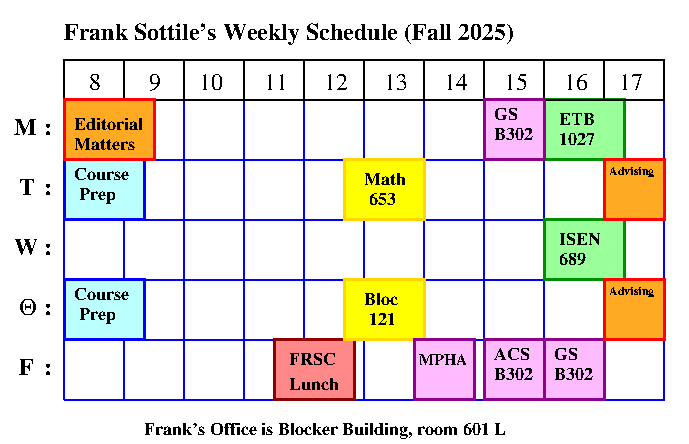
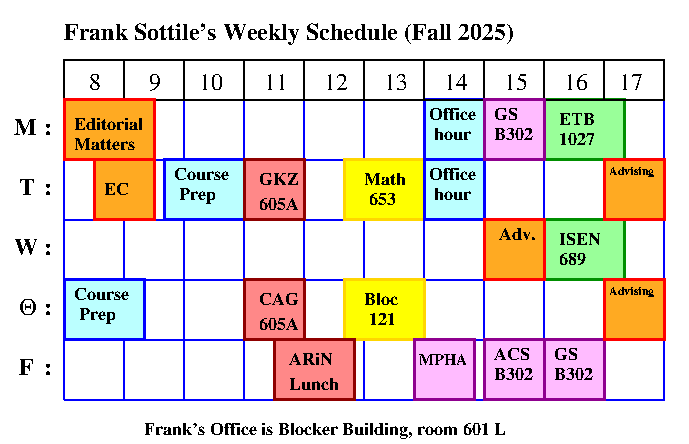
25.2 updates

diff --git a/teaching.html b/teaching.html
@@ -134,37 +134,38 @@
 <!--    Before teaching any course, especially one you have taught before,  ---->
 <!--    re-read your evaluations !                                          ---->
 <!------------------------------------------------------------------------------>
- <!---------------------------------------------------------------------------------------------------->
-  <!---------------------------------------------------------------------------------------------------->
-   <b><FONT SIZE=+1 color=brown>Fall  2025</font></b>
-   <table border=0>
-   <!---------------------------------------------------------------------------------------------------->
+<!---------------------------------------------------------------------------------------------------->
+  <b><FONT SIZE=+1 color=brown>Fall  2025</font></b>
+  <table border=0>
+    <!---------------------------------------------------------------------------------------------------->
     <tr valign=top><td><font color=brown>MATH 653</font>&nbsp;</td>
-      <td><a href="teaching/25.2/653.html"></a>Algebra I</a></td>
-      <td colspan=2> Tu-Th 12:45&ndash;14:00.</td><td> Blocker 121
+      <td><a href="teaching/25.2/653.html">Algebra I</a></td>
+      <td colspan=1> Tu-Th </td><td> 12:45&ndash;14:00</td><td> Blocker 121
       </td>
     </tr>
      <!-------------------------------------------------->
-    <tr valign=top><td colspan=3 rowspan=1><font color=blue><b>Office Hours:</b></font> Blocker 601L</td>
-     <td>  </td><td> </td>
-    </tr>
+    <tr valign=top><td colspan=4 rowspan=1><font color=blue><b>Office Hours:</b></font> &nbsp; Blocker 601L </td><td></td>
+   </tr>
     <!-------------------------------------------------->
-<!--     <tr><td>  Tuesdays </td><td>11:00-12:00 </td> </tr>-->
-     <!-------------------------------------------------->
-     <tr><td></td><td colspan=4><hr></td></tr>
+    <tr><td colspan=3>  Mondays &amp;  Tuesdays </td> <td colspan=2>14:00-15:00 </td> 
+    <!-------------------------------------------------->
+    <!-------------------------------------------------->
+   <tr><td colspan=2> Also, by Appointment</td></tr>
+   <tr><td colspan=4><hr></td></tr>
     <!-------------------------------------------------->
    <tr valign=top>
-     <td colspan=3><font color=blue><b>Honors Advising:</b></font></td>
-     <td> </td><td></td>
+     <td colspan=3><font color=blue><b>Honors Advising:</b> Bloc 601L</font></td>
+     <td colspan=2><a href="https://tamu.campus.eab.com/pal/SzblDjOLD-">Schedule appointment</a></td> 
     </tr>
     <!-------------------------------------------------->
-     <tr valign=top><td rowspan=3></td>     <td colspan=2 rowspan=3>Blocker 601L</td>
-      <td>  </td><td> </td> </tr>
+     <tr valign=top><td colspan=2>Tuesdays  &amp; Thursdays </td>
+      <td colspan=2 >15:00&ndash;16:00</td>
+      <td>  </td></tr>
     <!-------------------------------------------------->
-<!--     <tr><td> Wednesday </td><td>17:00-18:00 </td> </tr> -->
+     <tr><td> Wednesday </td><td>17:00-18:00 </td> </tr>
     <!-------------------------------------------------->
 <!--     <tr><td> </td><td>17:00-18:00 </td> </tr>-->
-    <!---------------------------------------------------------------------------------------------------->
+  <!---------------------------------------------------------------------------------------------------->
   </table>
   <!---------------------------------------------------------------------------------------------------->
 
@@ -190,29 +191,7 @@
     Isaiah Galo,  TAMU Master's Student.
  </dd>
  <!---------------------------------------------------------------------------------------------------->  
- <!---------------------------------------------------------------------------------------------------->
- <dd>
-    Merri Stillman,  TAMU Master's Student.
- </dd>
- <!---------------------------------------------------------------------------------------------------->
- <!---------------------------------------------------------------------------------------------------->
- <dd>
-    Jonah Robinson,  TAMU Master's Student.  
- </dd>
- <!---------------------------------------------------------------------------------------------------->
- <!------- <dd>
-  Jennifer Pickrel,  TAMU Master's Student.
- </dd>------>
- <br>
- <!------------------------------------------------------------------>
-  <dd>
-    <A HREF="https://cbott2.github.io/">C.J. Bott</a>, TAMU Ph.D. Student.
-  </dd>
- <!------------------------------------------------------------------>
- <!------------------------------------------------------------------>
-  <dd>
-    <A HREF="https://jordylopez27.github.io/">Jordy Lopez-Garc&iacute;a</a>, TAMU Ph.D. Student.
-  </dd>
+  <br>
  <!------------------------------------------------------------------>
  <!------------------------------------------------------------------>
   <dd>

diff --git a/teaching/25.2/653.html b/teaching/25.2/653.html
@@ -39,15 +39,15 @@ Homework is on a <a href="653_HW.html">separate page</a>
      <IMG SRC="../images/dot.gif"> Mondays: 
     </TD>  
     <TD>
- <!--    14:00&ndash;14:50 -->
+   14:00&ndash;14:50
     </TD>
    </TR> 
   <TR>
     <TD></TD> <TD>  
-     <IMG SRC="../images/dot.gif"> Wednesdays: &nbsp;
+     <IMG SRC="../images/dot.gif"> Tuesdays: &nbsp;
     </TD>  
     <TD>
-  <!--     13:00&ndash;14:00 -->
+      14:10&ndash;15:00
     </TD>
    </TR>
    <TR>
@@ -82,7 +82,7 @@ Homework is on a <a href="653_HW.html">separate page</a>
     This is a first semester graduate course in abstract algebra, and
     is intended to be an introduction to the fundamental objects of groups, rings, modules,
     fields, and vector spaces.
-    I intend to cover most of <font color="red">Chapters ??</font> from Lang's
+    I intend to cover most of <font color="red">Chapters 1 and 2, and some other bits</font> from Lang's
     classical algebra text (at right).  
     We should cover the following topics, time permitting.
    <ul>
@@ -156,11 +156,11 @@ Homework is on a <a href="653_HW.html">separate page</a>
  <!-------------------------------------------------------------------------------> 
  <dd><font size=+1 color=maroon>Homework:</font>
   <dl>
-    <dd>There will be weekly written homework assignments to be handed in (on  <font color=magenta>TBA</font>)
+    <dd>There will be weekly written homework assignments to be handed in (on  <font color=magenta>Thursdays</font>, at the starat of class)
         and graded.
       Problems may  be assigned in nearly every class; a summary may be found <a href="653_HW.html"><font color=red>here</font></a>.
         These will be marked by our grader, Daniel Dale, an advanced senior graduate student, and returned on
-        <font color=magenta>TBA</font>.   Sometimes, there will be homework you are to hand into Frank.<br>
+        <font color=magenta>Tuesdays</font>.   Sometimes, there will be homework you are to hand into Frank.<br>
         As this is a qualifying class, there will be plenty of homework, and you should use it as a way to master the
         material, which is fundamental to any educated mathematician.
     </dd>
@@ -191,10 +191,9 @@ Homework is on a <a href="653_HW.html">separate page</a>
        Also, you are absolutely forbidden to consult web sites or problem solution sources
        (other than the textbook and class notes).
        Violating this rule has serious consequences, both as it violates the universities
-       academic integrity policy <font color=red (read that 
-       <A HREF="http://aggiehonor.tamu.edu/RulesAndProcedures/HonorSystemRules.aspx">here</a>), </font>
+       academic integrity policy (read that in the official syllabus), 
        and because not doing your own work will likely lead to an inability to do the problems 
-       on the course exams.
+       on the course exams and very poor marks.
    </dd>
   </dl>
  </dd>

diff --git a/index.html b/index.html
@@ -174,23 +174,25 @@
       </td>
     </tr>
      <!-------------------------------------------------->
-    <tr valign=top><td colspan=3 rowspan=1><font color=blue><b>Office Hours:</b></font> </td>
-     <td> </td><td></td>
+    <tr valign=top><td colspan=4 rowspan=1><font color=blue><b>Office Hours:</b></font> &nbsp; Blocker 601L </td><td></td>
    </tr>
     <!-------------------------------------------------->
-<!--     <tr><td>  Tuesdays </td><td>11:00-12:00 </td> </tr>-->
-     <!-------------------------------------------------->
-     <tr><td></td><td colspan=4><hr></td></tr>
+    <tr><td colspan=3>  Mondays &amp;  Tuesdays </td> <td colspan=2>14:00-15:00 </td> 
+    <!-------------------------------------------------->
+    <!-------------------------------------------------->
+   <tr><td colspan=2> Also, by Appointment</td></tr>
+   <tr><td colspan=4><hr></td></tr>
     <!-------------------------------------------------->
    <tr valign=top>
-     <td colspan=3><font color=blue><b>Honors Advising:</b></font><br>Blocker 601L</br></td>
-     <td>Summer 2025:</td><td colspan=2>Mon. &amp; Tues. &nbsp; 13:30-14:00 </td>
+     <td colspan=3><font color=blue><b>Honors Advising:</b> Bloc 601L</font></td>
+     <td colspan=2><a href="https://tamu.campus.eab.com/pal/SzblDjOLD-">Schedule appointment</a></td> 
     </tr>
     <!-------------------------------------------------->
-     <tr valign=top><td colspan=2></td>     <td colspan=2 rowspan=3></td>
-      <td>  </td><td> </td> </tr>
+     <tr valign=top><td colspan=2>Tuesdays  &amp; Thursdays </td>
+      <td colspan=2 >15:00&ndash;16:00</td>
+      <td>  </td></tr>
     <!-------------------------------------------------->
-<!--     <tr><td> Wednesday </td><td>17:00-18:00 </td> </tr> -->
+     <tr><td> Wednesday </td><td>17:00-18:00 </td> </tr>
     <!-------------------------------------------------->
 <!--     <tr><td> </td><td>17:00-18:00 </td> </tr>-->
     <!---------------------------------------------------------------------------------------------------->
@@ -213,8 +215,8 @@
      <td><a href="https://www.math.tamu.edu/seminars/cag/"></a>Combinatorial Algebraic Geometry
      </td>
      <td width=30></td>
-     <td>TBD</td>
-     <td>TBD</td>
+     <td>Thursdays  10:00&ndash;11:00</td>
+     <td>Blocker 605A</td>
    </tr>
    </tr>
       <tr> <td>&nbsp;</td>

diff --git a/talks.html b/talks.html
@@ -120,9 +120,18 @@
   <!--------------------------------------------------------------------------------------------------->
   <!---------------------------------------------------------------------------------------------------->
   <li> 
-    <FONT COLOR="AA00FF"><I>TBA</I></font>,
+    <FONT COLOR="AA00FF"><I>Algebraic geometry of periodic graphs</I></font>,
+    AMS Special Session on  Open Problems in Geometric Data Science,
+    Joint Mathematics Meetings, 4&ndash;7 January 2026, Washington, DC.
+    <a href="talks/26/JMM_Kurlin.txt">abstract</a>
+  </li>
+  <!---------------------------------------------------------------------------------------------------->
+   <!---------------------------------------------------------------------------------------------------->
+  <li> 
+    <FONT COLOR="AA00FF"><I>Periodic graphs whose band functions are perfect Morse functions</I></font>,
     AMS Special Session on  Spectral Theory of Discrete and Continuous Sch&ouml;dinger Operators,
     Joint Mathematics Meetings, 4&ndash;7 January 2026, Washington, DC.
+    <a href="talks/26/JMM_Spectral.txt">abstract</a>
   </li>
   <!---------------------------------------------------------------------------------------------------->
   <!---------------------------------------------------------------------------------------------------->
@@ -141,11 +150,12 @@
   <!---------------------------------------------------------------------------------------------------->
   <!---------------------------------------------------------------------------------------------------->
   <li>
-    <FONT COLOR="AA00FF"><I>TBA</I></font>,
+    <FONT COLOR="AA00FF"><I>The critical point degree of a periodic graph</I></font>,
     Special Session on Applied and Computational Algebra at
     <a href="https://www.ams.org/meetings/sectional/2322_program.html">AMS Fall Central Sectional Meeting</a>
     Saint Louis University, St. Louis, MO
-      October 18&ndash;19, 2025.
+    October 18&ndash;19, 2025.
+        <a href="talks/25/StLouis.txt">abstract</a>
   </li>
   <!---------------------------------------------------------------------------------------------------->
   <!--------------------------------------------------------------------------------------------------->

diff --git a/advising/advising.html b/advising/advising.html
@@ -68,17 +68,7 @@ You needn't take my word on this, feel free to contact those who have worked wit
 
 <font color=maroon>Current Students</font>
  <ul>
- <!------------------------------------------------------------------>
- <li>
-   <A HREF="https://cbott2.github.io/">C.J. Bott</a>, TAMU Ph.D.  Student.
- </li>
- <!------------------------------------------------------------------>
- <!------------------------------------------------------------------>
- <li>
-    <A HREF="https://jordylopez27.github.io/">Jordy Lopez-Garc&iacute;a</a>, TAMU Ph.D. Student.
- </li>
- <!------------------------------------------------------------------>
- <!------------------------------------------------------------------>
+  <!------------------------------------------------------------------>
  <li>
     <A HREF="https://jordylopez27.github.io/"></a>Somak Dutta, TAMU Ph.D. Student.
  </li>
@@ -92,6 +82,16 @@ You needn't take my word on this, feel free to contact those who have worked wit
 
 <font color=maroon>Former Students</font>
 <ul>
+<!------------------------------------------------------------------>
+ <li>
+   <A HREF="https://cbott2.github.io/">C.J. Bott</a>,  TAMU Ph.D. 2025. Postdoc at Bringham Young University.
+ </li>
+ <!------------------------------------------------------------------>
+ <!------------------------------------------------------------------>
+ <li>
+    <A HREF="https://jordylopez27.github.io/">Jordy Lopez-Garc&iacute;a</a>, TAMU Ph.D. 2025. Postdoc at Notre Dame.
+ </li>
+ <!------------------------------------------------------------------>
  <!------------------------------------------------------------------>
   <li>
     <A HREF="http://mattfaust.github.io/">Matthew Faust</a>, TAMU Ph.D. 2024.
